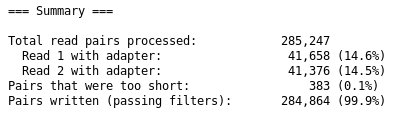
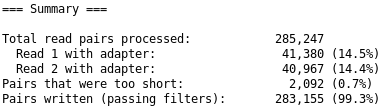
other changes in the workflow steps

Changed region(s): [[0.0, 0.283, 0.5938, 1.0], [0.7188, 0.283, 1.0, 0.9906], [0.0, 0.0283, 0.3125, 0.1698]]

diff --git a/topics/epigenetics/tutorials/atac-seq/tutorial.md b/topics/epigenetics/tutorials/atac-seq/tutorial.md
@@ -73,7 +73,7 @@ We first need to download the reads (fastqs) as well as other annotation files. 
 >
 >    {% include snippets/rename_dataset.md %}
 >
-> 4. Check that the datatype of the 2 fastq files is fastqsanger.gz
+> 4. Check that the datatype of the 2 fastq files is fastqsanger.gz and the bed file is bed.
 >
 >    {% include snippets/change_datatype.md datatype="datatypes" %}
 >
@@ -96,6 +96,7 @@ We first need to download the reads (fastqs) as well as other annotation files. 
 >    - *"group"*: `Genes and Gene Prediction`
 >    - *"track"*: `GENCODE v29`
 >    - *"table"*: `knownGene`
+>    - *"region"*: `position` `chr22`
 >    - *"output format"*: `BED - browser extensible data`
 >    - *"Send output to"*: `Galaxy`
 > 2. Click **get output**
@@ -158,7 +159,7 @@ The first step is to check the quality of the reads and the presence of the Next
 
 To trim the adapters we provide the Nextera adapter sequences to `Cutadapt`. These adapters are shown in the image below.
 
-![Nextera library with the sequence of adapters](../../images/atac-seq/nexteraLibraryPicture.svg "Nextera library with the sequence of adapters")
+![Nextera library with the sequence of adapters](../../images/atac-seq/nexteraLibraryPicture.svg.png "Nextera library with the sequence of adapters")
 
 The forward and reverse adapters are slightly different. We will also trim low quality bases at the ends of the reads (quality less than 20). We will only keep reads that are at least 20 bases long. We remove short reads (< 20bp) as they are not useful, they will either be thrown out by the mapping or may interfere with our results at the end.
 
@@ -204,7 +205,7 @@ The forward and reverse adapters are slightly different. We will also trim low q
 > > ### {% icon solution %} Solution
 > >
 > > 1. 15%
-> > 2. 284,864 (99.9%)
+> > 2. 283,155 (99.3%)
 > >
 > {: .solution}
 >
@@ -239,7 +240,7 @@ Next we map the trimmed reads to the human reference genome. Here we will use `B
 >            - *"Set the maximum fragment length for valid paired-end alignments"*: `1000`
 >            - *"Allow mate dovetailing"*: `Yes`
 >    - *"Will you select a reference genome from your history or use a built-in index?"*: `Use a built-in genome index`
->        - *"Select reference genome"*: ``
+>        - *"Select reference genome"*: `Human Dec. 2013 (GRCh38/hg38 (hg38)`
 >    - *"Set read groups information?"*: `Do not set`
 >    - *"Select analysis mode"*: `1: Default setting only`
 >        - *"Do you want to use presets?"*: `Very sensitive end-to-end (--very-sensitive)`
@@ -260,7 +261,7 @@ Next we map the trimmed reads to the human reference genome. Here we will use `B
 >
 > > ### {% icon solution %} Solution
 > >
-> > 1. 53.85+43.40=97.25%
+> > 1. 54.07+43.63=97.7%
 > >
 > {: .solution}
 >
@@ -285,9 +286,9 @@ We apply some filters to the reads after the mapping. ATAC-seq datasets can have
 > 1. **Filter** BAM datasets on a variety of attributes {% icon tool %} with the following parameters:
 >    - {% icon param-file %} *"BAM dataset(s) to filter"*: Select the output of  **Bowtie2** {% icon tool %} *"alignments"*
 >    - In *"Condition"*:
->        - {% icon param-repeat %} *"Insert Condition"*
+>        - *"1: Condition"*
 >            - In *"Filter"*:
->                - {% icon param-repeat %} *"Insert Filter"*
+>                - *"1: Filter"*
 >                    - *"Select BAM property to filter on"*: `mapQuality`
 >                        - *"Filter on read mapping quality (phred scale)"*: `>=30`
 >                - {% icon param-repeat %} *"Insert Filter"*
@@ -322,7 +323,6 @@ We apply some filters to the reads after the mapping. ATAC-seq datasets can have
 > > > There are 221 000 reads which map to chrM and 170 000 which map to chr22.
 > > {: .tip}
 > >
-> > 1. Most of these removed alignments mapped to chrM.
 > > 2. You should modify the mapQuality criteria and decrease the threshold.
 > >
 > {: .solution}
@@ -356,6 +356,7 @@ Because of the PCR amplification, there might be duplicates (reads mapping to ex
 > You can copy/paste the 2 lines with header and data into an Excel sheet.
 > Replace `Unknown Library` by `Unknown_Library` in the second line.
 > Then do Text to Columns (it is space delimited data). You should check the box for Treat consecutive delimiters as one.
+> Finally you copy and paste special your table to transpose it.
 > Now you should have:
 >
 > ![Metrics of MarkDuplicates in Excel](../../images/atac-seq/Screenshot_picardRemoveDupAfterTranspose.png "Metrics of MarkDuplicates in Excel")
@@ -369,8 +370,8 @@ Because of the PCR amplification, there might be duplicates (reads mapping to ex
 >
 > > ### {% icon solution %} Solution
 > >
-> > 1. 132911
-> > 2. 3515
+> > 1. 133284
+> > 2. 3549
 > >
 > {: .solution}
 >
@@ -397,11 +398,12 @@ We will check the insert sizes (the distance between the first and second read) 
 
 > ### {% icon question %} Questions
 >
-> 1. Excluding the first peak, what is the predominant insert size? Could you guess the size of the DNA protected by a nucleosome?
+> 1. Excluding the first peak around 50bp, what is the predominant insert size? Could you guess the size of the DNA protected by a nucleosome?
 >
 > > ### {% icon solution %} Solution
 > >
-> > 1. A bit less than 200bp. This is exactly the distance where both Tn5 cuts were in the same accessible chromatin depleted region of the nucleosome. Other peaks correspond to events where at least one nucleosome was between the 2 cuts of Tn5.
+> > 1. A bit less than 200bp.
+> > The first peak (50bp) corresponds to the distance where both Tn5 cuts were in the same accessible chromatin region (depleted of nucleosome). The second peak (a bit less than 200bp) corresponds to events eactly around a single nucleosome. The third one (around 400bp) is for two adjacent nucleosomes etc...
 > >
 > {: .solution}
 >
@@ -435,11 +437,11 @@ A final example of a Fragment size distribution of a very good ATAC-Seq, even if
 We have now finished the data preprocessing. Next, in order to find regions corresponding to potential open chromatin regions, we need a tool that can identify differentially covered regions of the genome. That is to say, we want to identify regions where reads have piled up (peaks) greater than the background read coverage, to find out if some peaks are enriched. We use `Genrich` for that reason. It is very important at this point that we center the reads on the 5' extremity (where the Tn5 cut). You want your peaks around the nucleosomes and not directly on the nucleosome:
 ![Scheme of ATAC-seq reads relative to nucleosomes](../../images/atac-seq/schemeWithLegend.jpg "Scheme of ATAC-seq reads relative to nucleosomes")
 
-If we only make a coverage of 5' extremities, the data would be too sparse and it would be impossible to call peaks. Thus, we will make a coverage of 5' extremities extended to 100 bp in each direction.
+If we only make a coverage of 5' extremities, the data would be too sparse and it would be impossible to call peaks. Thus, we will make a coverage of 5' extremities extended to 50 bp in each direction.
 
 > ### {% icon comment %} Comment on Tn5 insertion
 >
-> When Tn5 staggers to an accessible chromatin locus, it will join the Mosaic Ends (which will be used to make the library) to the top and bottom 3'OH extremity of a 9 bp DNA molecule  [Kia et al. 2017](https://bmcbiotechnol.biomedcentral.com/track/pdf/10.1186/s12896-016-0326-1):
+> When Tn5 staggers to an accessible chromatin locus, it will join the Mosaic Ends (single-strand DNA fragments which will be used to make the library) to the top and bottom 3'OH extremity of a 9 bp DNA molecule  [Kia et al. 2017](https://bmcbiotechnol.biomedcentral.com/track/pdf/10.1186/s12896-016-0326-1):
 > ![Nextera Library Construction](../../images/atac-seq/NexteraLibraryConstruction.jpg "Nextera Library Construction")
 >
 > This means that the 5' extremity of the read is not really the center of the staggered position but reads on the positive strand should be shifted 5 bp to the right and reads on the negative strands should be shifted 4 bp to the left. Here we are focusing on broad regions so we will not apply these shifts.
@@ -456,6 +458,8 @@ If we only make a coverage of 5' extremities, the data would be too sparse and i
 >    - *"ATAC Options"*:
 >        - *"Use ATAC-seq mode."*: `Yes`
 >        - *"Expand cut sites."*: `100`
+>    - *"Output Options"*:
+>        - *"Bedgraph-ish Pileups"*: `Yes`
 >
 {: .hands_on}
 
@@ -463,16 +467,20 @@ If we only make a coverage of 5' extremities, the data would be too sparse and i
 
 ## Prepare the Datasets
 
-Thanks to `Genrich` we now have a coverage file which represents the coverage of the 5' extremities extended 100 bp to each side.
-The output of `Genrich` is in a bedgraph format. It is easily readable for human (4 columns text format) but it can be very large and visualising a specific region is quite slow. We will change it to bigwig format which is a binary format, where we can visualise any region of the genome very quickly.
+Thanks to `Genrich` we now have a coverage file which represents the coverage of the 5' extremities extended 50 bp to each side.
+The output of `Genrich` is a BedGraph-ish pileup (6 columns text format with a comment line and a header). We will first need to convert it to a bedgraph format (4 columns text format with no header) to be able to visualize it. The bedgraph format is easily readable for human but it can be very large and visualising a specific region is quite slow. We will change it to bigwig format which is a binary format, where we can visualise any region of the genome very quickly.
 
-### Convert BedGraph to bigWig
+### Convert BedGraph-ish pileup to bigWig
 
-> ### {% icon hands_on %} Hands-on: Convert bedgraph to bigWig.
+> ### {% icon hands_on %} Hands-on: Convert bedgraph-ish pileup to bigWig.
 >
 > 1. **Text reformatting with awk** {% icon tool %} with the following parameters:
 >    - {% icon param-file %} *"File to process"*: Select the output of **Genrich** {% icon tool %} *"Bedgraph Pileups"*.
 >    - *"AWK Program"*: `NR>=3 {print $1,$2,$3,$4}`
+>    > ### {% icon comment %} Comment: From BedGraph-ish pileup to bedgraph
+>    >
+>    > The awk program will read each line of the output of **Genrich** {% icon tool %}, when the number of the line is greater or equal to 3 (NR>=3), it will write the first 4 columns (print $1,$2,$3,$4) into a new file.
+>    {: .comment}
 >
 > 2. **Wig/BedGraph-to-bigWig** {% icon tool %} with the following parameters:
 >    - {% icon param-file %} *"Convert"*: Select the output of **Text reformatting with awk** {% icon tool %} *"Bedgraph"*.
@@ -480,31 +488,13 @@ The output of `Genrich` is in a bedgraph format. It is easily readable for human
 >
 {: .hands_on}
 
-### Convert NarrowPeak to BED3
-In order to visualize a specific region (e.g., the gene *YDJC*), we can either use a genome browser like `IGV` or `UCSC browser`, or use `pyGenomeTracks` to make publishable figures. We will use `pyGenomeTracks`. Currently `pyGenomeTracks` requires specific formats to be able to display peaks. We will convert the narrowPeak file from **Genrich callpeak** {% icon tool %} into a BED3 format (only 3 columns).
+### Sort CTCF Peaks
+In order to visualize a specific region (e.g., the gene *YDJC*), we can either use a genome browser like `IGV` or `UCSC browser`, or use `pyGenomeTracks` to make publishable figures. We will use `pyGenomeTracks`. The tool **pyGenomeTracks** {% icon tool %} needs all bed files sorted, thus we sort the CTCF peaks.
 
-> ### {% icon hands_on %} Hands-on: Convert peaks to BED3 format
->
-> 1. **Cut** columns from a table {% icon tool %} with the following parameters:
->    - *"Cut columns"*: `c1,c2,c3`
->    - *"Delimited by"*: `Tab`
->    - {% icon param-file %} *"From"*: Select the output of **Genrich** {% icon tool %} *"Peaks (encodepeak)"*.
+> ### {% icon hands_on %} Hands-on: Sort the BED files
 >
 > 2. **bedtools SortBED** order the intervals  {% icon tool %} with the following parameters:
->    - {% icon param-file %} *"Sort the following bed,bedgraph,gff,vcf file"*: Select the output of **Cut** {% icon tool %} *"interval"*.
->
-{: .hands_on}
-
-### Sort Annotation and CTCF Regions
-The tool **pyGenomeTracks** needs all bed files sorted, thus we sort the annotation file and the CTCF regions.
-
-> ### {% icon hands_on %} Hands-on: Convert peaks to BED3 format
->
-> 1. **bedtools SortBED** order the intervals {% icon tool %} with the following parameters:
->    - {% icon param-file %} *"hg38.bed"*.
->
-> 2. **bedtools SortBED** order the intervals  {% icon tool %} with the following parameters:
->    - {% icon param-file %} *"CTCF.bed"*.
+>    - {% icon param-file %} *"ENCFF117WKK.bed.gz"*.
 >
 {: .hands_on}
 
@@ -515,34 +505,35 @@ The tool **pyGenomeTracks** needs all bed files sorted, thus we sort the annotat
 > 1. **pyGenomeTracks** {% icon tool %} with the following parameters:
 >    - *"Region of the genome to limit the operation"*: `chr22:21,620,000-21,660,000`
 >    - In *"Include tracks in your plot"*:
->        - {% icon param-repeat %} *"Insert Include tracks in your plot"*
+>        - *"1. Include tracks in your plot"*
 >            - *"Choose style of the track"*: `Bigwig track `
->                - *"Plot title"*: `Coverage from macs2 (extended +/-100bp)`
+>                - *"Plot title"*: `Coverage from Genrich (extended +/-50bp)`
 >                - {% icon param-file %} *"Track file bigwig format"*: Select the output of **Wig/BedGraph-to-bigWig** {% icon tool %}.
 >                - *"Color of track"*: Select the color of your choice
->                - *"Minimum value"*: `0`
->                - *"Maximum value"*: `40.0`
 >                - *"height"*: `5.0`
 >                - *"data_range"*: `Yes`
+>                - *"Include spacer at the end of the track"*: `0.5`
 >        - {% icon param-repeat %} *"Insert Include tracks in your plot"*
 >            - *"Choose style of the track"*: `Gene track / Bed track`
->                - *"Plot title"*: `Peaks from macs2 (extended +/-100bp)`
+>                - *"Plot title"*: `Peaks from Genrich (extended +/-50bp)`
 >                - {% icon param-file %} *"Track file bed format"*: Select the output of **bedtools SortBED** {% icon tool %}.
 >                - *"Color of track"*: Select the color of your choice
 >                - *"Plot labels"*: `No`
+>                - *"Include spacer at the end of the track"*: `0.5`
 >        - {% icon param-repeat %} *"Insert Include tracks in your plot"*
 >            - *"Choose style of the track"*: `Gene track / Bed track`
 >                - *"Plot title"*: `Genes`
->                - {% icon param-file %} *"Track file bed format"*: Select the dataset `bedtools SortBED of hg38.bed`
+>                - {% icon param-file %} *"Track file bed format"*: Select the dataset `UCSC Main on Human: knownGene (chr22:1-50,818,468)`
 >                - *"Color of track"*: Select the color of your choice
 >                - *"height"*: `5.0`
->                - *"Type"*: `genes`
+>                - *"Include spacer at the end of the track"*: `0.5`
 >        - {% icon param-repeat %} *"Insert Include tracks in your plot"*
 >            - *"Choose style of the track"*: `Gene track / Bed track`
 >                - *"Plot title"*: `CTCF peaks`
->                - {% icon param-file %} *"Track file bed format"*: Select the dataset `bedtools SortBED of CTCF.bed`
+>                - {% icon param-file %} *"Track file bed format"*: Select the dataset `bedtools SortBED of ENCFF117WKK.bed.gz`
 >                - *"Color of track"*: Select the color of your choice
 >                - *"Plot labels"*: `No`
+>                - *"Include spacer at the end of the track"*: `0.5`
 >    - *"Configure x-axis"*: `Yes`
 >        - *"Where to place the x-axis"*: `Bottom`
 >
